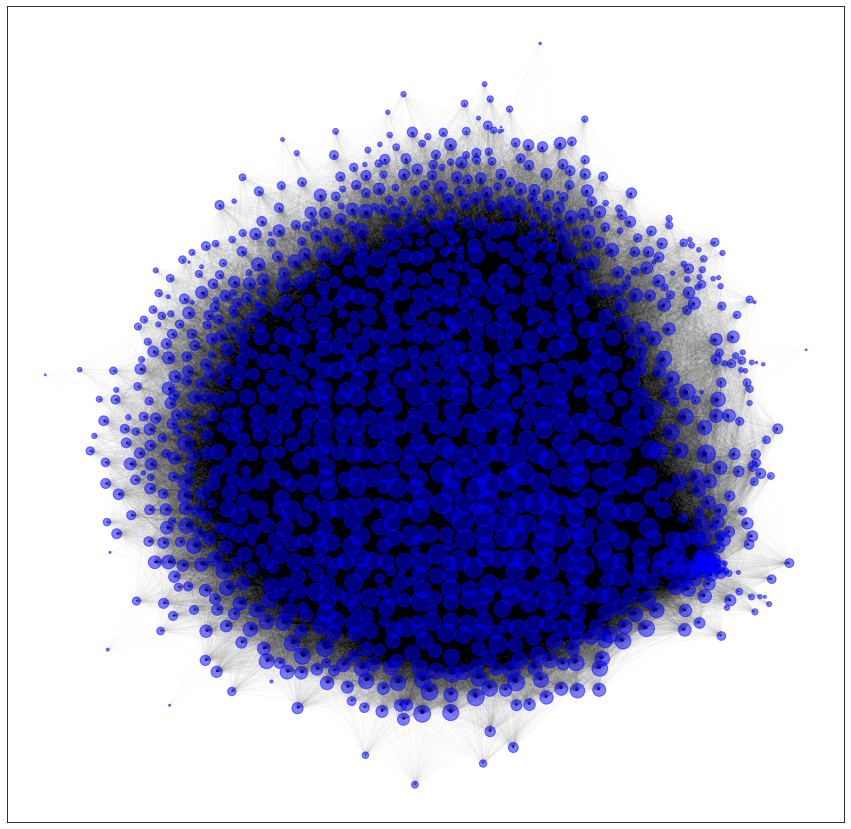
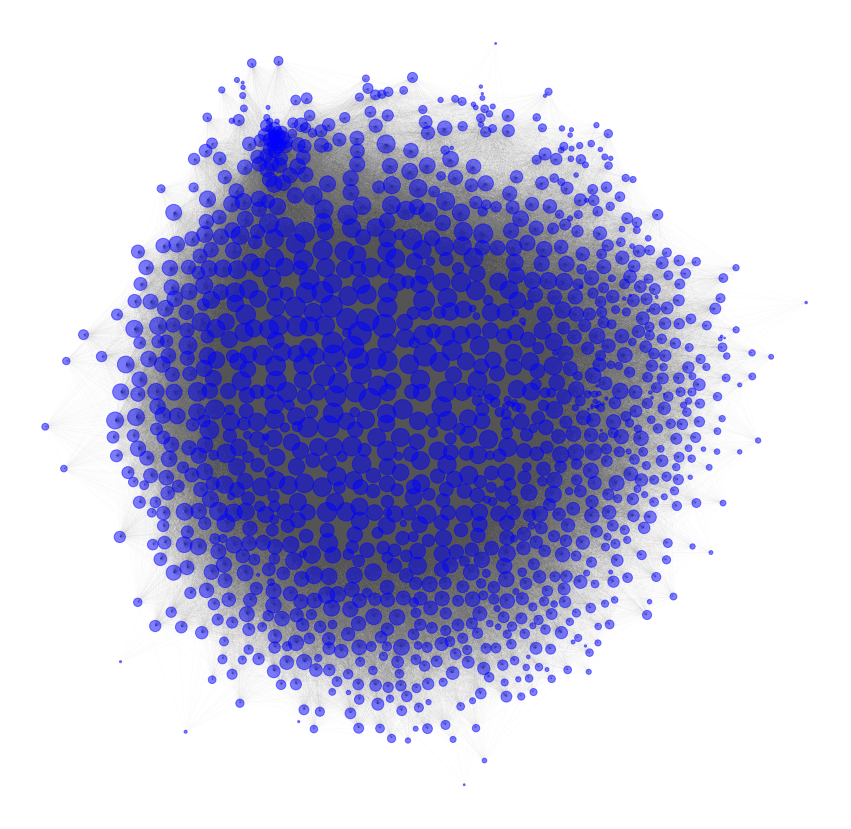
added communities section

diff --git a/index.html b/index.html
@@ -132,9 +132,9 @@
                         </tr>
                     </table>
                     <div style="margin-top: 20px">
-                        <b>
+                        <h3>
                             Does the network structure resemble that of a random network?
-                        </b>
+                        </h3>
                         <p>
                             The degree distribution of a random network does follow a Poisson distribution. To compare the degree distribution of our network with a Poisson we try to fit a normal distribution curve over the degree distribution to see how well it fits.
                         </p>
@@ -148,6 +148,49 @@
                             </td>
                             </tr>
                         </table>
+                        <h3>Is this a scale-free network?</h3>
+                        <p>A scale-free network is a network whose degree distribution follows a power law. (ch. 4 in networks book). The power law states that there are a lot of nodes with a very small degree and a few nodes with a very high degree. When plotting the degree distribution of a network that follows the power law with loglog axes it should resemble a straigh line (or close to that).</p>
+                        <table style="width: 100% ">
+                            <tr>
+                            <td class="image-wrap center" style="width: 60% ">
+                                <img src="images/degree_point_plot.png" alt="degree distribution" class="rounded img-fluid image image-2">
+                            </td>
+                            <td style="padding: 10px">
+                                It does not look like it follows the power law. Let's plot it using log-log axes.
+                            </td>
+                            </tr>
+                        </table>
+                        <table style="width: 100% ">
+                            <tr>
+                            <td class="image-wrap center" style="width: 60% ">
+                                <img src="images/degrees_point_plot_log.png" alt="degree distribution" class="rounded img-fluid image image-2">
+                            </td>
+                            <td style="padding: 10px">
+                                It does not really follow the power law but it is still a very broad distribution meaning that the difference between the minum degree and the maximum degree is very large.
+                            </td>
+                            </tr>
+                        </table>
+                        <b>Is the friendship paradox true in this network?</b>
+                        <p class="indented">Paradox is true 92.4 % of the time</p>
+                        
+                        <p>In a nework with a power-law degree distribution the friendship paradox is true. The paradox states that almost everyone has fewer friends than their friends have on average. Meaning that the degree of most nodes is lower that the average degree of its neighbours. Even though we found that our network does not really have a power-law degree distribution the friendship paradox is still true for most nodes, so the network does still some property of a real-life network.</p>
+                        <h3>The small world property</h3>
+                        <p>Does the small world propery hold in our network? The small-world property states that the distance between two nodes is very small compared to the size of the network. The mathematical formula that states whether a netork has the small-world property is printed below (ch. 3 in Network Science book).</p>
+                        <div class="indented" style="display: flex; align-items: center; flex-direction: row">
+                            <img style="display: flex; width: 200px" src="images/eq_3_19.png" alt="degree distribution" class="rounded img-fluid image image-2">
+                            <div style="display: flex; padding-left: 20px">
+                                <p style="display: flex"> eq. 3.19 Network Science book</p>
+                            </div>
+                        </div>
+                        <p>The equation states that the average distance between nodes should be approximately equal to the natural logarithm of n divided by the natural logarithm of the average degree.</p>
+                        <p>Adding our values gives: </p>
+                        <div class="indented">
+                            <img style="width: 200px" src="images/eq_3_19_numbers.png" alt="degree distribution" class="rounded img-fluid image image-2">
+                        </div>
+                        <p>Are these number close enough to call the network a small world? We will say yes, and state that this is a small world network.</p>
+                        <h3>Conclusion regarding degree distribution</h3>
+                        <p>The network does not resemble a random network but it does not have a clear power-law degree distribution either. However the friendship paradox is true for 92.4% percente of the nodes and it does have the small world property. To sum up it does resemble a real-life network more than a random network.</p>
+                        
                     </div>
                 </section>
                 <section>
@@ -221,7 +264,7 @@
                     <p>
                         First of all they are all very famous. Lets find their ratings, their vote count and how many movies they have directed.
                     </p>
-                    <table class="directors_table" style="width: 100%">
+                    <table class="my_table">
                         <tr>
                             <th style="width: 20%; padding: 5px;"> 
                             </th>
@@ -336,7 +379,138 @@
                     Their vote count is high compared to the rest of the network, but their rating is not that high. This shows that directors who are central in the network do not necessary have a high rating. However their vote count is also an indicator of popularity or at least of how famous they are, and this is quite high for all of them. The fact that they all have a high number of movies is not surprising as this will of course give them a higher probality of being connected with other directors. Their genres are all very popular genres which also increases the likelihood that they share actors with other directors.
                     </p>
             </section>
+            <section>
+                <h2>Community Detection</h2>    
+                <p>In this section we will describe the communities of the netork and analyse where these communities come from. We will do this by looking at some of the attributes that we have for the directors in our dataset.</p>
+                    <p>We found the following communities</p>
+                <div class="indented">
+                    <table class="community_table">
+                        <tr>
+                            <th>
+                                Community
+                            </th>
+                            <th>
+                                Size
+                            </th>
+                        </tr>
+                        <tr>
+                            <th>
+                                0
+                            </th>
+                            <td>
+                                417
+                            </td>
+                        </tr>
+                        <tr>
+                            <th>
+                                1
+                            </th>
+                            <td>
+                                223
+                            </td>
+                        </tr>
+                        <tr>
+                            <th>
+                                2
+                            </th>
+                            <td>
+                                394
+                            </td>
+                        </tr>
+                        <tr>
+                            <th>
+                                3
+                            </th>
+                            <td>
+                                90
+                            </td>
+                        </tr>
+                        <tr>
+                            <th>
+                                4
+                            </th>
+                            <td>
+                                100
+                            </td>
+                        </tr>
+                        <tr>
+                            <th>
+                                5
+                            </th>
+                            <td>
+                                48
+                            </td>
+                        </tr>
+                    </table>
+                </div>
+                <p style="margin-top: 30px">The modularity is 0,228. The modularity is above 0 which means that there are more edges within the communities than there are across communities. However the modularity is not that high which means that the community are not that well defined.</p>               
+                <div class="image-wrap center">
+                    <img src="images/communities.png" alt="communuties" class="rounded img-fluid image image-2">
+                    <div class="text">
+                        <span class="position">The communities of the network illustrated using different colors.</span>
+                    </div>
+                </div>
+                <p>The plot above illustrates the communities using different colours for each community. We see that the network is split into three bigger parts and two smaller parts at the right and one small community inside another one</p>
+                <h3>Analysis of communities</h3>
+                <p>We will look at three different attributes: language, genre, active period and rating, to see if anything can be said about the communities regarding these. We want to find out if the communities can be distinguished using any of these attributes.</p>
                 
+                <h3>Languages</h3>  
+                <p> We have seperated the directors into groups of languages based on the language of their movies.</p>
+                <div class="indented" style="display: flex; align-items: center; flex-direction: row">
+                    <img style="display: flex; flex:5;" src="images/confusion_matrix_lang.png" alt="degree distribution" class="rounded img-fluid image image-2">
+                    <div style="display: flex; flex: 3; padding-left: 20px">
+                        <p style="display: flex;"> The figure shows a heatmap where each cell shows the percentage of the community that direct movies of that specific language. Community 3 and 5 seem to be based on language. Community 3 mostly has mostly directors of french movies and some italian movies, community 5 mostly directors of japanese and cantonese movies. The other communities have mostly directors of english movies however community 2 does have a higher percentage of movies of many of the smaller languages than the other communities. </p>
+                    </div>
+                </div>
+                <h3>Genres</h3>                
+                <p>We have created one group for each genre and added directors to the groups that they have worked whithin. One director might have worked in more than one genre.</p>
+                <div class="indented" style="display: flex; align-items: center; flex-direction: row">
+                    <img style="display: flex; flex:5;" src="images/confusion_matrix_genres.png" alt="degree distribution" class="rounded img-fluid image image-2">
+                    <div style="display: flex; flex: 3; padding-left: 20px">
+                        <p style="display: flex;"> The figure shows a heatmap where each cell shows the percentage of the community that have directed movies in that specific genre. As mentioned above, each directed might have worked in multiple genres therefor the percentages for one community do not add up to 100%. </p>
+                    </div>
+                </div>
+                <p>We observe that all communities are a mix of multiple genres which makes sense since we know that directors and actors do not restrict themselves to a single genre. There are some genres that are quite common among all communities such as drama, comedy, romance, thriller and action. These are all genres that are somewhat general and a lot of movies will have these genres listed as their genre along with other more significant genres. There are however some differences between the communities that might be of significans. Communty 4 has directors working in multiple genres that are not as common in the other communities such as music, history, mystery, western and war. Community 5 has a high percentage of directors working in the genres foreign, fantasy and science fiction. Community 1 has a high percentage of directors working in the genres thrillers, mystery, horror and science fiction.</p>
+                
+                <h3>Active Period</h3>  
+                <p> We have created one group for each decade and add directors to the group if they were active in that decade. We define the active period of a director as the time from the release of the first movie to the release of the last movie.</p>
+                <div class="indented" style="display: flex; align-items: center; flex-direction: row">
+                    <img style="display: flex; flex:5;" src="images/confusion_matrix_period.png" alt="degree distribution" class="rounded img-fluid image image-2">
+                    <div style="display: flex; flex: 3; padding-left: 20px">
+                        <p style="display: flex;"> The figure shows a heatmap where each cell is the percentage of the community that were active in that decade. A director can be active over a period of more than 10 years and hence can be in multiple groups. Therefor the percentages of each community do not add up to 100%. We observe that community 4 consists mainly of older movies. It makes sense that the directors of older movies are grouped together as not many of the same actors are acting in older as well as newer movies. We can also spot that directors of movies released after year 2000 are in community 0 and 2, while directors of movies from 1980-2000 are more dominant in community 1. Community 3 and 5 are not as concentrated on a specific period but are spread out from 1970 until 2020. </p>
+                    </div>
+                </div>
+                <h3>Rating</h3>                
+                <p>We have divided the ratings into 5 groups of equal size: low, medium-low, medium, medium-high and high. The directors are then added to the group for which their agerage rating falls within.</p>
+                <div class="indented" style="display: flex; align-items: center; flex-direction: row">
+                    <img style="display: flex; flex:5;" src="images/confusion_matrix_rating.png" alt="degree distribution" class="rounded img-fluid image image-2">
+                    <div style="display: flex; flex: 3; padding-left: 20px">
+                        <p style="display: flex;"> The figure shows a heatmap where each cell is the percentage of the community that have a rating in that group. There does not seem to be a high correlation between rating and communities. Community 0 and 1 have a larger part of low rating directors while community 2, 3 and 5 have a larger part of high rating directors. Community 4 has the largest part around the medium rating. However there is not a huge difference in the numbers. </p>
+                    </div>
+                </div>
+                <h3>Conclusion about communities</h3>
+                <p>So what can we say about the communities? First of all, the modularity is not significantly high, so the communities are not that solid. We examined different groupings of the directors to see if there is a correlation with the found communities. We tried grouping the directors by language, by genre, by active period and by rating. We discovered the following about the communities:</p>
+                <ul>
+                    <li>Community 0 consists almost solely of directors of english movies. Regarding active period it consists mostly of directors active in the recent decades.</li>
+                    <li>Community 1 also consist mainly of directors of english movies. It has a high percentage of directors working in drama, thrillers and action. Over half of the community has been rated below medium and most directors were active in the years 1980-2010.</li>
+                    <li>Community 2 has a higher number of percentage of directors working in many of the smaller languages than the other communities. It consists mainly of directors active after 1990. Almost haf of the community has been rated above average.</li>
+                    <li>Community 3 consists mainly of directors of french and italian movies. Most of the directors in that community are working with commedy and drama. The directors have been active in the last 50 or so years. Over half of the community has been rated above average.</li>
+                    <li>Community 4 is characteries as being the community of directors of older movies. Most directors were active in the years 1940-1990. The genres are also a bit different than of the other communities. These directors were working more in the genres music, history, mystery, western and war which are genres that were more popular a few decades ago than they are today.</li>
+                    <li>Community 5 consists mainly of directors of japanese and cantonese movies. These directors are directing foreign, fantasy and science fiction movies and a more than a third of the community has received a high rating.
+                    </li>
+                </ul>
+                <p>
+                    The analysis showed that some of the communities seem to be defined by attributes such as language (3 and 5) and active period (4) while the others are more mixed and it's harder to distinguish what makes the community.
+                </p>
+                <b>So in what communities are our most central directors?</b>
+                <p> Our guess would be in the mixed communities 0, 1 or 2. These are afterall also the largest communities and they seem to hold the more mainstreem directors.</p>
+                <ul>
+                    <li>Steven Spielberg: 2</li>
+                    <li>Woody Allen: 1</li>
+                    <li>Ridley Scott: 2</li>
+                </ul>
+                <p>The most central nodes are indeed in communies 1 and 2.</p>
+            </section> 
             </div>
         </div>
     </section>

diff --git a/css/style.css b/css/style.css
@@ -173,13 +173,26 @@ svg {
   vertical-align: middle; }
 
 table {
-  border-collapse: collapse; }
-.directors_table{
+  border-collapse: collapse;
+  margin-top: 20px;
+}
+.my_table{
     margin-top: 30px;
     margin-bottom: 30px;
+  width: 100%;
 }
-.directors_table td, th {
+.my_table th {
     border-bottom: 1px solid #ddd;
+}.my_table th {
+    border-bottom: 1px solid #ddd;
+}
+.community_table th {
+    border-bottom: 1px solid #ddd;
+    padding: 10px 0 10px 20px;
+}
+.community_table td {
+    border-bottom: 1px solid #ddd;
+    padding: 10px 0 10px 20px;
 }
 caption {
   padding-top: 0.75rem;
@@ -9592,3 +9605,7 @@ section {
 .navbar-brand {
   font-weight: 700;
   font-size: 22px; }
+.indented {
+    padding-left: 50px;
+    padding-right: 50px;
+}
